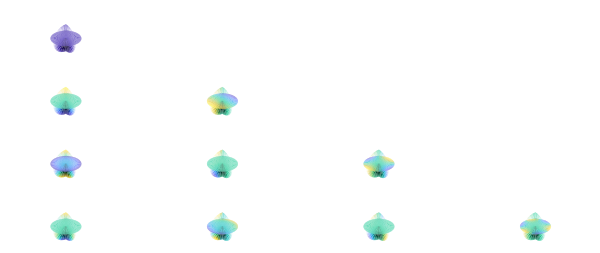
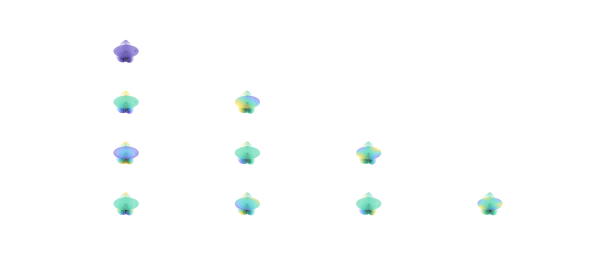
Refresh SolidHarmonics figures after subplot preservation fix
Retain full-source scalar and degree-150 evidence; qualify eleven rendering constructions and 55 actual surfaces separately.

diff --git a/HANDOFF_CODEX.md b/HANDOFF_CODEX.md
@@ -27,10 +27,12 @@ survivors. Root independently verified2,954 runtime hashes, the exact one-line
 change and saved subplot/standalone images.
 
 No mathematical/data or camera algorithm changed. Supplied-axis camera reset,
-lighting/interpolation and native default layout remain open. Published
-SolidHarmonics images still reflect the preceding full run; a qualified
-low-degree source rendering update is pending, not a repeated scalar/high-degree
-computation. Evidence: ball_subplot_root_runtime_review_20261009.json and
+lighting/interpolation and native default layout remain open. SolidHarmonics
+images now use the corrected subplot behavior: a rendering-only source replay
+verified 11 finite fields, 55 surfaces and two 600 x253 images. Root verified
+2,949 runtime hashes and viewed both images. Original full-source scalar and
+degree-150 evidence is carried unchanged; this is composite qualification,
+not a repeated full-page computation. Evidence: ball_subplot_root_runtime_review_20261009.json and
 ball_subplot_position_source_20261009/HANDOFF.json in shared scratch.
 
 ## WaveDecay source execution and reference dimensions (2026-10-09)

diff --git a/STATUS.md b/STATUS.md
@@ -40,9 +40,10 @@ These are scoped qualifications, not a complete passing suite or exact-head CI.
 ## Current work
 
 Trigonometric per-column metadata passed 45 focused and 14 unchanged regression
-checks. The Ballfun subplot fix passed five controls; its refreshed images are
-under final integration. Native basic eigenvalue behavior, full real/complex
-solid harmonics and remaining constructor contracts are being implemented. Resource-heavy examples run
+checks (commit `e8c8bfec`). The Ballfun subplot fix passed five controls; both
+refreshed SolidHarmonics images passed rendering and runtime audits. Native basic eigenvalue behavior, full real/complex
+solid harmonics and remaining constructor contracts are being implemented.
+Resource-heavy examples run
 serially; independent bounded work uses up to three worker slots.
 
 ## Evidence

diff --git a/docs/examples/sphere/SolidHarmonics.md b/docs/examples/sphere/SolidHarmonics.md
@@ -153,4 +153,4 @@ Elapsed time is 0.207955 seconds.
 
 *Translated with [chebfunjax](https://github.com/ma-gilles/chebfunjax); prose and MATLAB code from the original example, copyright The University of Oxford and The Chebfun Developers.  Printed outputs and figures are chebfunjax's.*
 
-*Execution note: timing is from this Python run, including coefficient completion and validation. Lighting, surface coloring and subplot layout still differ from MATLAB.*
+*Execution note: printed scalar outputs and degree-150 timing retain the earlier full-source Python execution, including coefficient completion and validation. The figures were refreshed from the original eleven low-degree rendering constructions after correcting figure-wide subplot adjustment. Lighting, surface coloring and default subplot layout still differ from MATLAB.*
